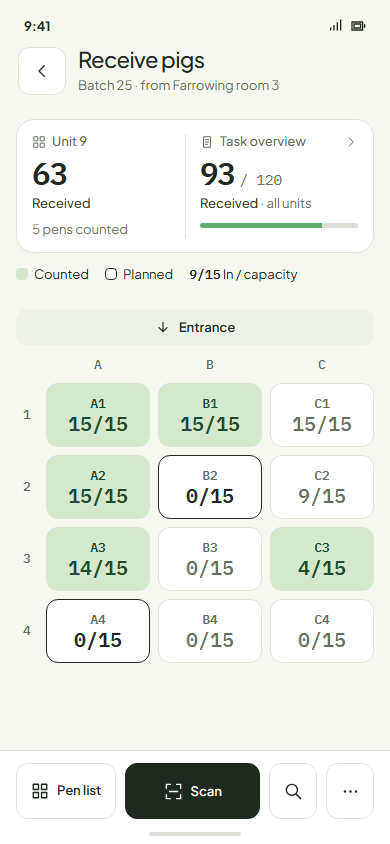
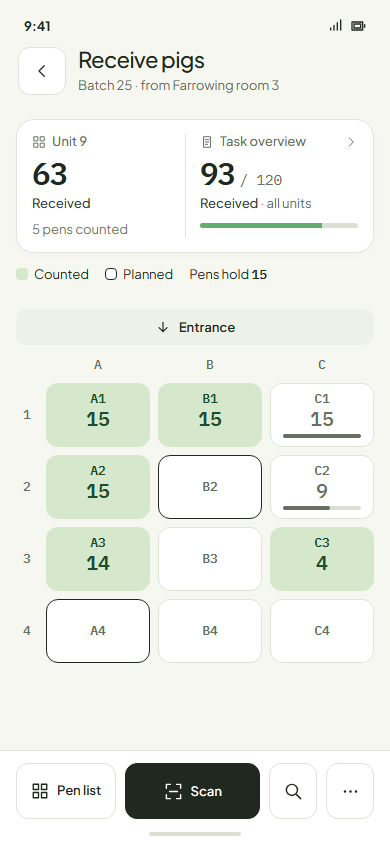
Count: receiving tiles say capacity once; a pen shows its pigs and a fill line, an empty pen only its code

diff --git a/features/count/PRD.md b/features/count/PRD.md
@@ -31,7 +31,7 @@ Reviewed on the Claude Design canvas ([canvas.md](canvas.md)). Ruled and redrawn
 - **Recount is the unit's, with a balance sheet** (owner, 2026-11-03; supersedes the per-pen Review count). *Recount · Unit 7* lists the unit's pens, each with what was found or *Not counted yet*; tapping a pen opens the pen count (all pigs, then ear tags by search or scan), whose *Done* returns to the list. *Count* on a pen page opens the same recount, straight into that pen. *Finish recount* shows the **unit balance sheet**: on record against counted; pigs found in another pen, which move; pigs without ear tags netted pen against pen (D4 −1, D5 +1: balanced), so pigs moved and not updated, or piglets shuffled between pens, stop being losses; and only what the unit can't account for (000803, found in no pen) goes on the batch's balancing sheet. *Save recount*. ([mock 10](mock/mock-10-unit-recount.png), [11](mock/mock-11-unit-balance.png).)
 - **A recount that changes nothing just saves; the balance sheet opens only when the unit's total changed** (owner, 2026-11-03). It is one ledger card in the owner's order: *Counted 60* at the top; each change a door with its signed figure in a tonal tile (*Found from other units +2*, *Not found −1*, the one amber, to the balancing sheet); *On record 59* at the bottom ([11](mock/mock-11-unit-balance.png); each line opens its pigs: [11b](mock/mock-11b-found.png), [11c](mock/mock-11c-not-found.png)). Pigs without ear tags counted in a different pen of the unit than recorded are normal work: the pens are updated and nothing is said. **The recount is drawn on the unit's pen map** (owner: "we should use pen view"): counted pens turn done-green with their count; a pen with pigs still to count shows what the record says; an empty pen says *Empty*; any pen can be counted, an empty one too; a pen not counted when you finish keeps its record (the footer says so: *D5 not counted · Keeps 38 if you finish*) ([10](mock/mock-10-unit-recount.png)).
 - **The pen count asks two questions** (owner, 2026-11-03: titles are questions): *How many pigs are in D4?* (the stepper), then *Which tagged pigs are here?* with *4 found* beside it (search or scan, ticked rows).
-- **Receiving is two parts: the plan, then the count** (owner, 2026-11-03; supersedes receiving pen by pen). *Receive pigs* is a task page like Farrowing's room (owner, 2026-11-03): one header, the task card (this unit's *Received* on the left; *Task overview ›* on the right, across units, where the crew switches unit and ends the task, as in every task). Below, the unit's pen map: every pen shows the pigs in it over its capacity (*9/15*); the planned pens are outlined, a suggestion only (no number per pen, nothing owed to a pen); pigs may go into any pen. Nothing is recorded while pigs are moving. Once they are in, tap any pen to count it (all pigs, then ear tags); a counted pen turns done-green, a pen off the plan too. What was counted is where the pigs are ([13](mock/mock-13-receive-plan.png), [14](mock/mock-14-receive-count.png), [12](mock/mock-12-receive-pen.png)). The map tile showing pigs over capacity, outlined when planned, is a proposed PenMap variant (*room*). **Pigs to move is the source room's pen map** (owner, 2026-11-03): a pen whose pigs all go shows the move glyph (not a tick, which reads as done); a pen sending some shows *12/13*; tapping it opens the pen with a toggle, *Move · 12* and *Stay · 1* ([9](mock/mock-9-transfer-out.png), [9b](mock/mock-9b-pen-move.png), [9c](mock/mock-9c-pen-stay.png)).
+- **Receiving is two parts: the plan, then the count** (owner, 2026-11-03; supersedes receiving pen by pen). *Receive pigs* is a task page like Farrowing's room (owner, 2026-11-03): one header, the task card (this unit's *Received* on the left; *Task overview ›* on the right, across units, where the crew switches unit and ends the task, as in every task). Below, the unit's pen map: capacity is said once (*Pens hold 15*); an empty pen shows only its code; a pen with pigs shows how many and, until it is counted, a fill line for how full it is (owner, 2026-11-03: *9/15* on every tile was an information explosion); the planned pens are outlined, a suggestion only (no number per pen, nothing owed to a pen); pigs may go into any pen. Nothing is recorded while pigs are moving. Once they are in, tap any pen to count it (all pigs, then ear tags); a counted pen turns done-green, a pen off the plan too. What was counted is where the pigs are ([13](mock/mock-13-receive-plan.png), [14](mock/mock-14-receive-count.png), [12](mock/mock-12-receive-pen.png)). The map tile showing pigs and a fill line, outlined when planned, is a proposed PenMap variant (*room*). **Pigs to move is the source room's pen map** (owner, 2026-11-03): a pen whose pigs all go shows the move glyph (not a tick, which reads as done); a pen sending some shows *12/13*; tapping it opens the pen with a toggle, *Move · 12* and *Stay · 1* ([9](mock/mock-9-transfer-out.png), [9b](mock/mock-9b-pen-move.png), [9c](mock/mock-9c-pen-stay.png)).
 - **Ending the transfer is Farrowing's End task** (owner, 2026-11-03: "look at how we do it for the farrowing end task"). After receiving, the task closes from *End task*: the heading answers (*Ready to end early* / *Ready to end*); one bar over the batch's pigs, then a row per part: *Received* (done) and *Not arrived* (with the amber "!", as *Leave the batch*; the row says what ending does: *Goes on the balancing sheet*). Never *Still to count*: the planned pens are a suggestion, so a pig is either received or not arrived (owner, 2026-11-03). *Not arrived* opens its pigs: those without ID as one number; those with ID in Fostering's *With ID* picker (search and scan in one box, a read ticks). Ticking a pig that turned up makes the footer *Move to*, to put her in a pen; she leaves *Not arrived*. Nothing else on the page (no *When you end*, no second count card; Farrowing has neither); then the hold ([16b](mock/mock-16b-end-early.png), [16d](mock/mock-16d-not-arrived.png), [16e](mock/mock-16e-not-arrived-move.png), [16c](mock/mock-16c-end-ready.png)). The receiving and End task mocks render against a checkout that has Farrowing's room page and End task (PR 294).
 - **Sex and weight of pigs without ear tags** (owner question): recommended kept on the batch (sex split and the last average weight), never per pen, so a move or count never asks for them.
 
